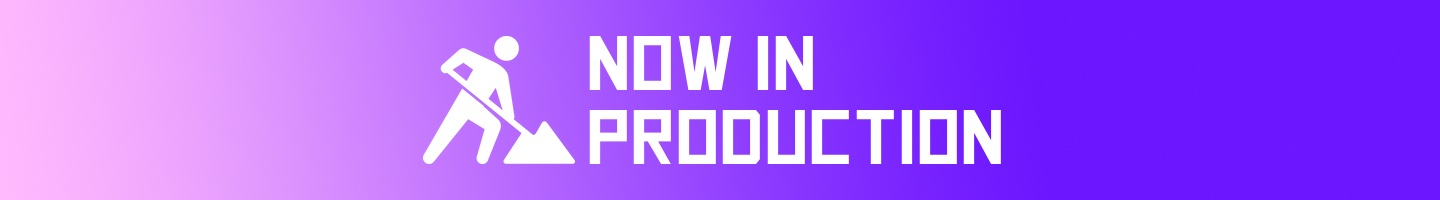
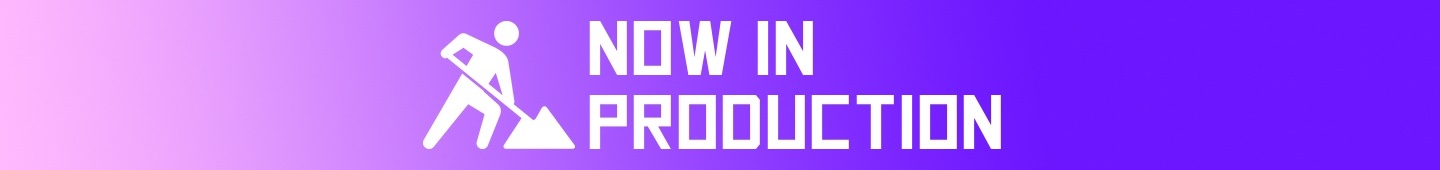
20260806

diff --git a/information_bubblepop.html b/information_bubblepop.html
@@ -29,7 +29,7 @@
             <span>Joy</span> from Yuuki Hyodo</div>
 
     </header>
-    <img src="./Information_tamaire.jpg" class="header-image">
+    <img src="./information_bubblepop.jpg" class="header-image">
 
     <div class="top-bar-front"></div>
 
@@ -50,19 +50,21 @@
             <br><br><br>
             <h2>アピールポイント</h2><br>
                 <p class="left">
-                    運動会定番の玉入れをスマホ向けの3Dゲームアプリにしました。<br>
-                    操作は「走る」「拾う」「投げる」の3アクションのみですが、得点を伸ばすのにはテクニックが必要な奥深いゲームです。
-                    小学生の子と親が一緒に遊ぶシーンも想定して子どもから大人まで幅広く遊べるようにしました。
-                    入れた玉の数に応じて日本史に登場する称号が獲得できるので知識もつきます！<br>
-                    本気でスコアを上げたい方はXboxやPlayStationのコントローラーを使用することもできます。
+                    綺麗な海の中でくらげの妖精クラリィとシャボン玉を弾いてはこぶゲームアプリです。<br>
+                    時計やポモドーロタイマーの機能もあり一緒に作業を集中することもできます。<br>
+                    実在の魚をベースに水中の表現にこだわりました。日の出・日没（愛媛県伊予市の時刻）に連動して海の色が変化します。<br>
+                    貝がらをあつめてクラリィの着せ替えもできます。<br>
+                    海の美しさとシャボン玉を弾く心地よい振動を楽しんでください。<br>
+
+                    
                 </p>
             <br><br><br><br>
 
             <h2>ストアリンク</h2>
             <br>
-            <p>App Store → https://apps.apple.com/jp/app/id1551817951</p>
+            <p>App Store → https://apps.apple.com/jp/app/id6767833171</p>
             <br>
-            <p>Google Play → https://play.google.com/store/apps/details?id=com.YuukiHyodo.hitoritamaire</p>
+            <p>Google Play → https://play.google.com/store/apps/details?id=com.YuukiHyodo.bubblepop</p>
             <br><br><br><br>
 
             
@@ -72,36 +74,34 @@
             <br><br><br><br><br>
 
 
-            <h2>ストア掲載文・機能紹介</h2><br>
+            <h2>機能紹介</h2><br>
             <p class="left">
-                運動会の定番競技、玉入れを3D再現しました！シンプルな操作で誰でもかんたんに遊べます。縦画面暇つぶしにぜひ！<br>
-                    <br>
-                    [2種類のゲームモード] <br>
-                    ・ノーマル　60秒間に何個玉を入れられるかチャレンジ<br>
-                    ・％モード　15個の玉をなるべくミスしないように投げて得点率にチャレンジ<br>
+                    ■3種類のゲームモード<br>
+                    ・ノーマル（無限）　自由にシャボン玉を落とさないようにはこぶモード。衣装と交換できる貝がらを拾えます<br>
+                    ・どまんなか　　　　15回ランダムに移動するシャボン玉をなるべく中心で弾きスコアを競うモード<br>
+                    ・タイムアタック　　60秒間にできるだけシャボン玉を弾き移動距離で競うモード<br>
+
                     <br>
                     [ランキング機能]<br>
-                    ハイスコアを記録しニックネームをランキングにのせられます。高得点を目指して世界的玉入れプレイヤーを目指しましょう！<br>
+                    各ゲームモードのハイスコアを記録しニックネームをランキングにのせられます。<br>
                     <br>
-                    [レベルと称号]<br>
-                    カゴに入れた玉のトータル数でレベルが上がり称号を獲得できます。冠位十二階をはじめ平安貴族の役職など日本の歴史的な官職に簡単な解説を用意しています。<br>
+                    [着せ替え]<br>
+                    クラリィの衣装を着せ替えられます。ドレスやパジャマ、制服、着物やチャイナドレス・アラビアンなどの民族衣装もあります。<br>
                     <br>
                     [特徴]<br>
-                    SNSや他のアプリの途中にプレイ出来るよう縦画面で設計しました。電車や病院の待ち時間、他のゲームのスタミナ待ちなど空いた時間に是非!!<br>
-                    <br>
-                    Xbox Playstationのコントローラに対応。
+                    iOSではシャボン玉を弾くときに心地よい振動が走ります。<br>
+
                     <br><br>
                 </p>
             <br><br><br>
     
             <h2>スクリーンショット・動画素材</h2><br>
-            <a href="https://youtu.be/H9BlwnJvonM">YouTube　宣伝用動画</a>
-            <br><br>
-            <a href="https://drive.google.com/drive/folders/1TBIqv0qCJCG37oyDIM1RT90-V0tgrP4B?usp=sharing">↓Google Drive
+<br>
+            <a href="https://drive.google.com/drive/folders/1TIaXivH975mbgs-dqD4jLgBIMfhVokVC?usp=sharing">↓Google Drive
                  (ストア画像、GIF・動画あり)</a>
             <br><br>
-            <a href="https://drive.google.com/drive/folders/1TBIqv0qCJCG37oyDIM1RT90-V0tgrP4B?usp=sharing"><img
-                    src="./share_tamaire_sample.png"  class="nextp-image"></a>
+            <a href="https://drive.google.com/drive/folders/1TIaXivH975mbgs-dqD4jLgBIMfhVokVC?usp=sharing"><img
+                    src="./share_bubblepop_sample.png"  class="nextp-image"></a>
 
             <br><br>
             <p>

diff --git a/products.html b/products.html
@@ -69,7 +69,11 @@
             <br>
             <p class="justify">Unity2020, C#で開発。新しいInput Systemを採用したのでタッチパネルの他、キーボード、コントローラー(Xbox,PlayStation)で操作できます。
                 カメラの動きはCinemachine、色合いに関してはPostprocessを使用しました。ログイン,ランキング機能はMicrosoft Azure
-                Playfabです。玉入れのカゴはBlenderで作りました。</p>
+                Playfabです。玉入れのカゴはBlenderで作りました。<br><br>
+                運動会定番の玉入れをスマホ向けの3Dゲームアプリにしました。<br>
+                    操作は「走る」「拾う」「投げる」の3アクションのみですが、得点を伸ばすのにはテクニックが必要な奥深いゲームです。<br>
+                    小学生の子と親が一緒に遊ぶシーンも想定して子どもから大人まで幅広く遊べるようにしました。<br>
+                    入れた玉の数に応じて日本史に登場する称号が獲得できるので知識もつきます！</p><br>
             <br><br><br>
             <br>
 
@@ -94,7 +98,11 @@
             <br>
             <h2>-技術特徴-</h2>
             <br>
-            <p class="justify">Unity 6, 1から手作業で作った玉入れとは違い、Claude CodeとCodexをフル活用。3DモデルはTripo3D、音楽はGeminiを活用して、とにかく作りたい世界観を作り込みました。</p>
+            <p class="justify">Unity 6で開発。 1から手作業で作った玉入れとは違い、Claude CodeとCodexをフル活用。3DモデルはTripo3D、音楽はGeminiを活用して、とにかく作りたい世界観を作り込みました。<br><br>
+            綺麗な海の中でくらげの妖精クラリィとシャボン玉を弾いてはこぶゲームアプリです。<br>
+                    時計やポモドーロタイマーの機能もあり一緒に作業を集中することもできます。<br>
+                    実在の魚をベースに水中の表現にこだわりました。日の出・日没（愛媛県伊予市の時刻）に連動して海の色が変化します。<br>
+                    貝がらをあつめてクラリィの着せ替えもできます。海の美しさとシャボン玉を弾く心地よい振動を楽しんでください。<br></p>
             <br>
             <a href="bubblepop_introduction.html"><p>仕様書</p></a>
             <br><br><br>

diff --git a/promocode.html b/promocode.html
@@ -48,14 +48,16 @@
         <br>
         <p>画像の手順どおりにiPhoneを操作してください</p>
         <br>
-        <a href="./information_tamaire.html">資料集にもどる</a>
-        <br><br>
+    <a href="#" onclick="window.history.back(); return false;">
+     資料集にもどる
+    </a>       
+     <br><br>
         <img src="./dearinfluencer/1st.png" alt="screenshot" class="nextp-image">
         <img src="./dearinfluencer/2nd.png" alt="screenshot" class="nextp-image">
         <img src="./dearinfluencer/3rd.png" alt="screenshot" class="nextp-image">
         <img src="./dearinfluencer/4th.png" alt="screenshot" class="nextp-image">
         <br><br>
-        <p>1人玉入れアプリに戻り、ストアボタン＞購入の復元＞アプリを再起動して完了です</p>
+        <p>アプリに戻り、ストアボタン＞購入の復元＞アプリを再起動して完了です</p>
         <br><br>
     </div>
     </div>

diff --git a/index.html b/index.html
@@ -46,7 +46,7 @@
     </div>
 
     <div class="wrapper">
-        <p class="lastupdate">Last update :27th Jul. 2025</p>
+        <p class="lastupdate">Last update :6th Aug. 2026</p>
         <br>
 
         <div class="wrapper-body">
@@ -75,7 +75,10 @@
                 <br>
                 <a href = "https://dengekionline.com/articles/105004/">
                     <p>記事はこちら!</p></a>
-                    <br>
+                    <br><br><br>
+
+                    <p　class="lastupdate">本Webサイトは2020年に兵頭のHTML/CSSの勉強とアプリ公開用に作成した手書きサイトです。</p>
+                    <br><br>
         </div>
         <br>
     </div>

diff --git a/news.html b/news.html
@@ -44,7 +44,14 @@
     <div class="wrapper">
     <br>
     <div class="wrapper-body">
+      <p class="title">1人玉入れ 世界選手権　5th Anniversary！</p>
+        <br>
+        <p>ついに5周年。限定キャラアステリアがもらえる特別イベント開催中</p>
+        <br>
+        <img src="./newsimage/5th.jpg" class="nextp-image"><br>
+        <br>
 
+        <br><hr noshade><br> 
         <p class="title">1人玉入れも4周年を迎えました</p>
         <br>
         <p>2021年のリリースから4年。初回リリースからコツコツUpdateして理想の形になりました</p>
